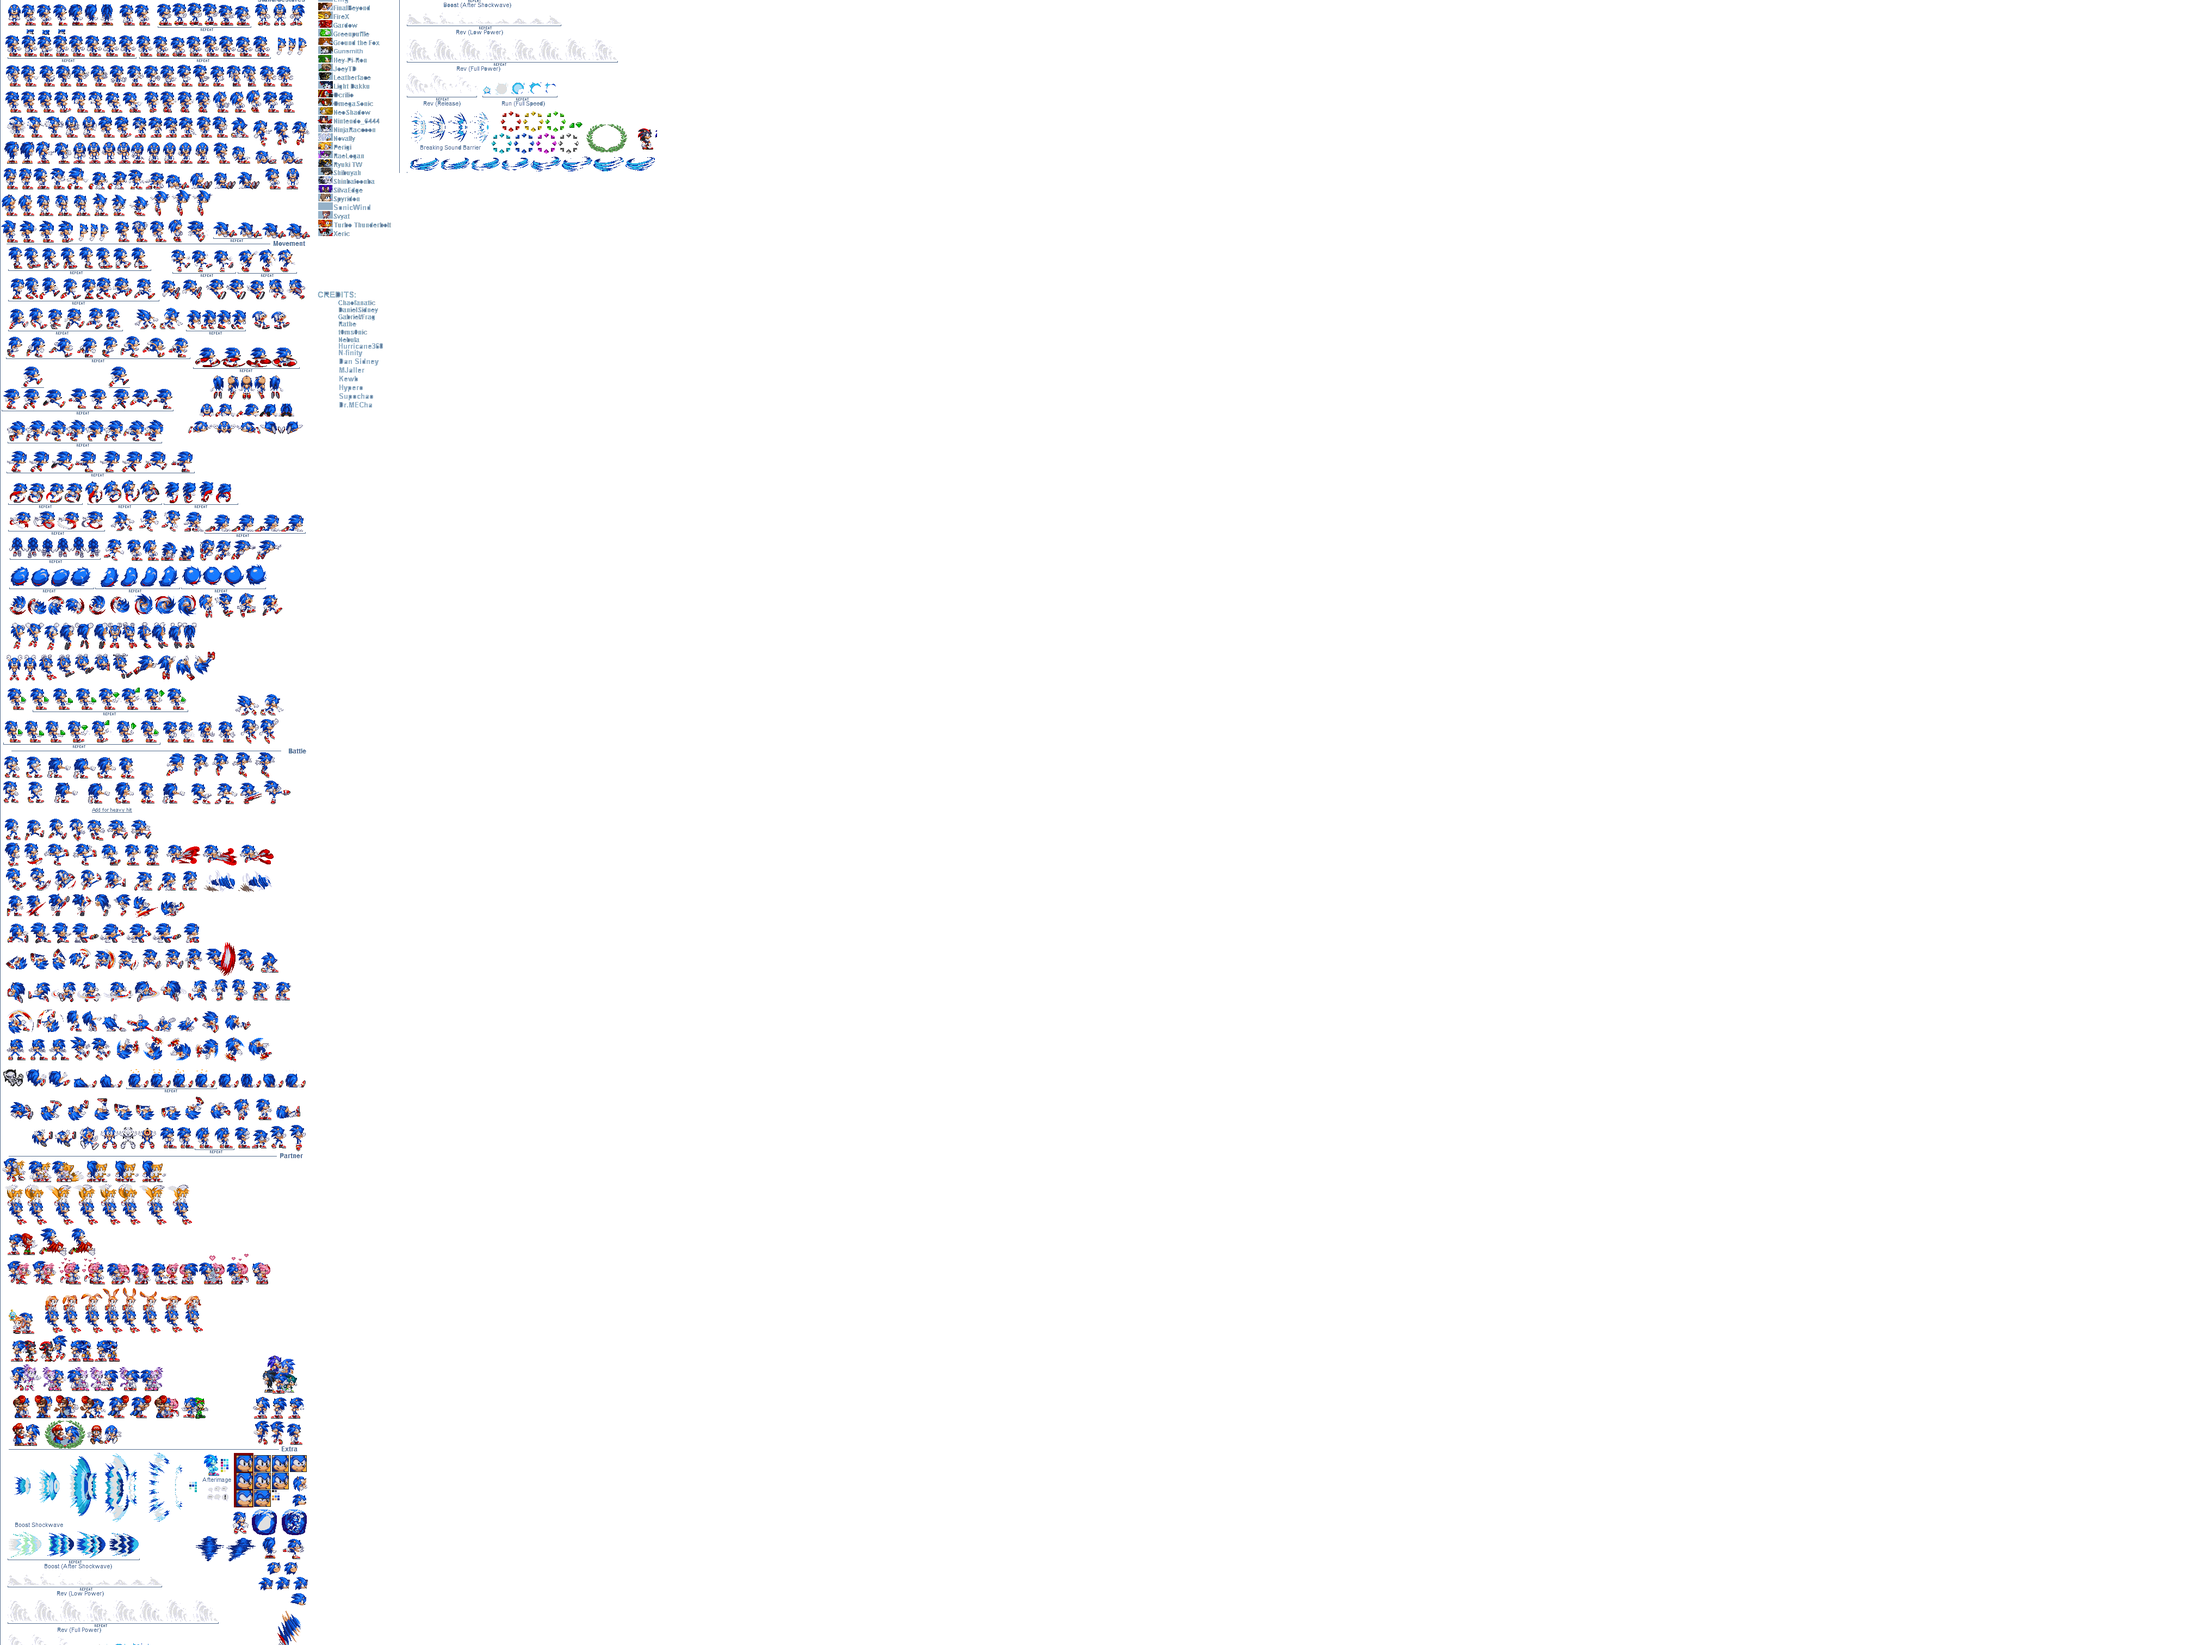
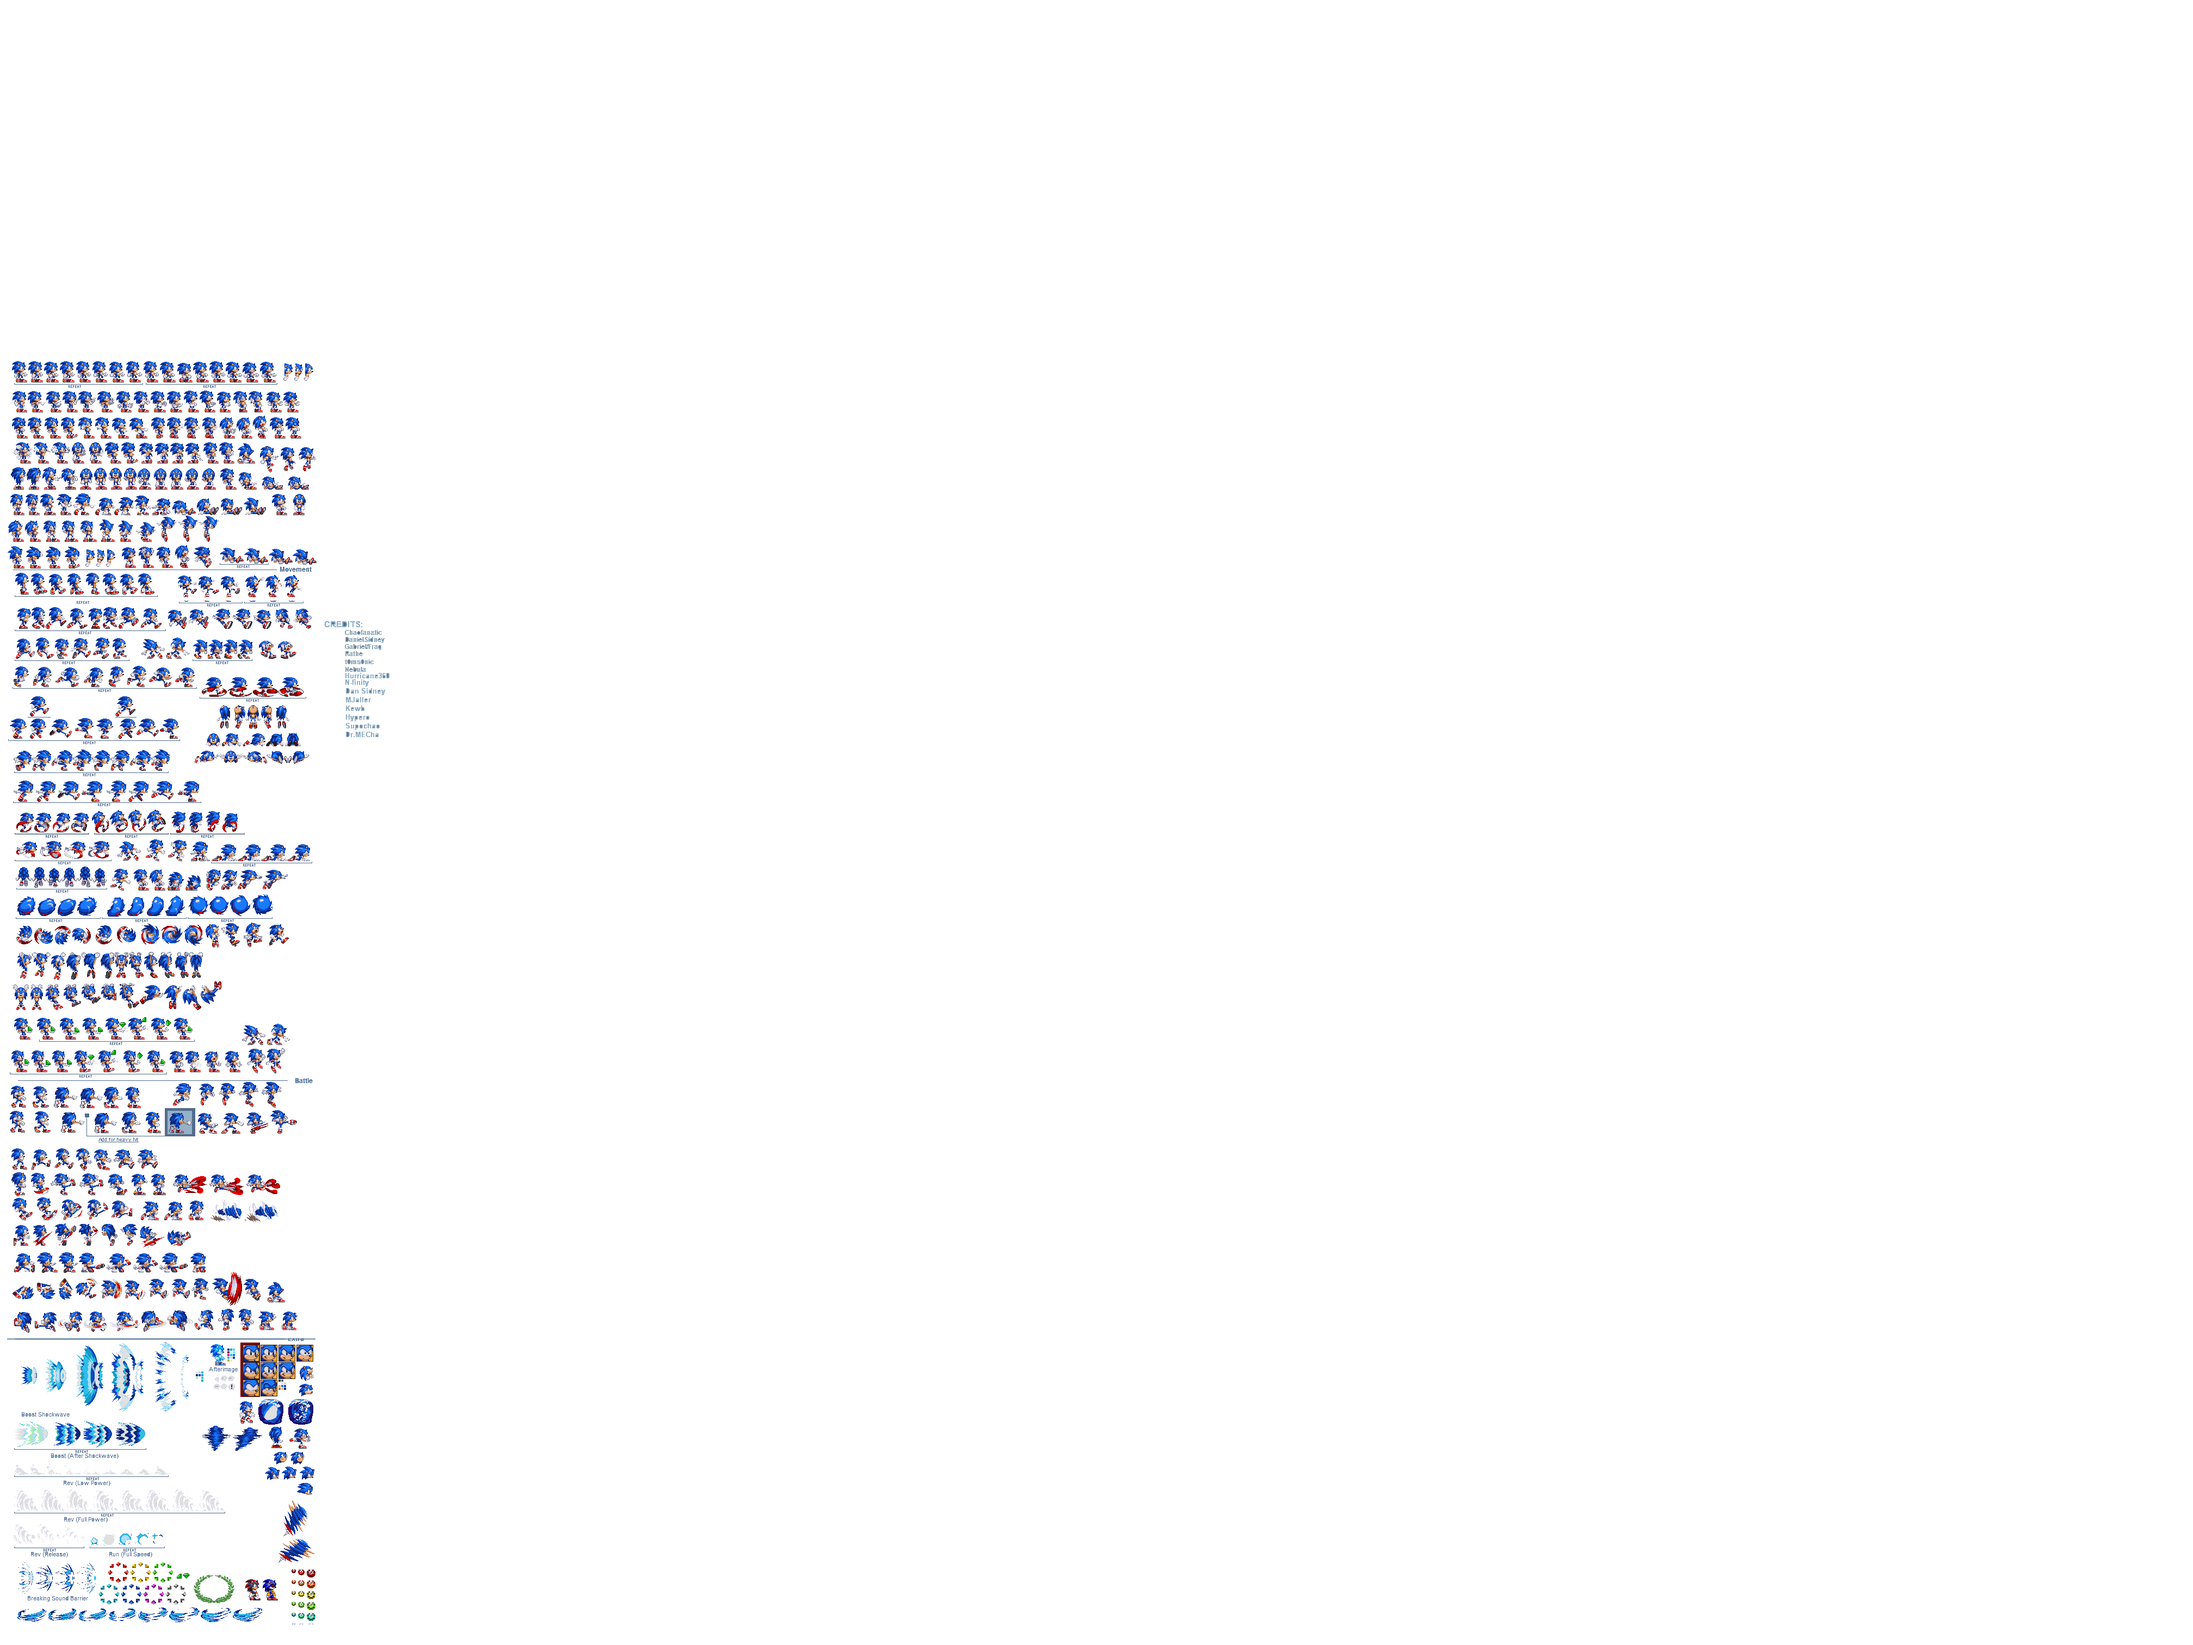
코드 수정
sonic 캐릭터 추가
sonic left.png 수정
캐릭터 이동 구현

Changed region(s): [[0.0, 0.0, 0.2812, 1.0]]

diff --git a/character_state.py b/character_state.py
@@ -1,5 +1,6 @@
 from pico2d import *
 import game_framework
+import game
 
 player_character = None
 character = ['Sonic', 'Tales', 'Knuckles', 'AmyRose', 'Tikal', 'Rouge', 'Shadow',
@@ -7,110 +8,264 @@ character = ['Sonic', 'Tales', 'Knuckles', 'AmyRose', 'Tikal', 'Rouge', 'Shadow'
 
 class Sonic:
     def __init__(self):
+        self.hp = 100
+        self.speed = 1.5
+        self.frame = 0
+        self.dir_x, self.dir_y = 0, 0
+        self.x, self.y = 400, 300
         self.image_left = load_image("character/sonic left.png")
         self.image_right = load_image("character/sonic left.png")
 
+    def update(self):
+        self.frame = (self.frame + 1) % 8
+        self.x += self.dir_x * self.speed * 10
+        self.y += self.dir_y * 1
+        InsideWindow(self.x, self.y)
+
     def draw(self):
-        self.image.clip_draw(0, 0, 0, 0, 400, 300)
+        self.image_left.clip_draw(20 + (self.frame * 30), 2320, 30, 40, self.x, self.y)
+        self.image_right.clip_draw(20 + self.frame * 30, 3000, 30, 40, self.x, self.y)
 
 class Tales:
     def __init__(self):
+        self.hp = 100
+        self.speed = 5
+        self.frame = 0
+        self.dir_x, self.dir_y = 0, 0
+        self.x, self.y = 400, 300
         self.image_left = load_image("character/tales left.png")
         self.image_right = load_image("character/tales left.png")
 
+    def update(self):
+        self.x += self.dir_x * 1
+        self.y += self.dir_y * 1
+        InsideWindow(self.x, self.y)
+
     def draw(self):
-        self.image.clip_draw(0, 0, 0, 0, 400, 300)
+        self.image_left.clip_draw(self.frame, 300, 400, 300, self.x, self.y)
+        self.image_right.clip_draw(self.frame, 300, 400, 300, self.x, self.y)
 
 class Knuckles:
     def __init__(self):
+        self.hp = 100
+        self.speed = 5
+        self.frame = 0
+        self.dir_x, self.dir_y = 0, 0
+        self.x, self.y = 400, 300
         self.image_left = load_image("character/knuckles left.png")
         self.image_right = load_image("character/knuckles left.png")
 
+    def update(self):
+        self.x += self.dir_x * 1
+        self.y += self.dir_y * 1
+        InsideWindow(self.x, self.y)
+
     def draw(self):
-        self.image.clip_draw(0, 0, 0, 0, 400, 300)
+        self.image_left.clip_draw(self.frame, 300, 400, 300, self.x, self.y)
+        self.image_right.clip_draw(self.frame, 300, 400, 300, self.x, self.y)
 
 class AmyRose:
     def __init__(self):
+        self.hp = 100
+        self.speed = 5
+        self.frame = 0
+        self.dir_x, self.dir_y = 0, 0
+        self.x, self.y = 400, 300
         self.image_left = load_image("character/amy rose left.png")
         self.image_right = load_image("character/amy rose left.png")
 
+    def update(self):
+        self.x += self.dir_x * 1
+        self.y += self.dir_y * 1
+        InsideWindow(self.x, self.y)
+
     def draw(self):
-        self.image.clip_draw(0, 0, 0, 0, 400, 300)
+        self.image_left.clip_draw(self.frame, 300, 400, 300, self.x, self.y)
+        self.image_right.clip_draw(self.frame, 300, 400, 300, self.x, self.y)
 
 class Tikal:
     def __init__(self):
+        self.hp = 100
+        self.speed = 5
+        self.frame = 0
+        self.dir_x, self.dir_y = 0, 0
+        self.x, self.y = 400, 300
         self.image_left = load_image("character/tikal left.png")
         self.image_right = load_image("character/tikal right.png")
 
+    def update(self):
+        self.x += self.dir_x * 1
+        self.y += self.dir_y * 1
+        InsideWindow(self.x, self.y)
+
     def draw(self):
-        self.image.clip_draw(0, 0, 0, 0, 400, 300)
+        self.image_left.clip_draw(self.frame, 300, 400, 300, self.x, self.y)
+        self.image_right.clip_draw(self.frame, 300, 400, 300, self.x, self.y)
 
 class Rouge:
     def __init__(self):
+        self.hp = 100
+        self.speed = 5
+        self.frame = 0
+        self.dir_x, self.dir_y = 0, 0
+        self.x, self.y = 400, 300
         self.image_left = load_image("character/rouge left.png")
         self.image_right = load_image("character/rouge right.png")
 
+    def update(self):
+        self.x += self.dir_x * 1
+        self.y += self.dir_y * 1
+        InsideWindow(self.x, self.y)
+
     def draw(self):
-        self.image.clip_draw(0, 0, 0, 0, 400, 300)
+        self.image_left.clip_draw(self.frame, 300, 400, 300, self.x, self.y)
+        self.image_right.clip_draw(self.frame, 300, 400, 300, self.x, self.y)
 
 class Shadow:
     def __init__(self):
+        self.hp = 100
+        self.speed = 5
+        self.frame = 0
+        self.dir_x, self.dir_y = 0, 0
+        self.x, self.y = 400, 300
         self.image_left = load_image("character/shadow left.png")
         self.image_right = load_image("character/shadow right.png")
 
+    def update(self):
+        self.x += self.dir_x * 1
+        self.y += self.dir_y * 1
+        InsideWindow(self.x, self.y)
+
     def draw(self):
-        self.image.clip_draw(0, 0, 0, 0, 400, 300)
+        self.image_left.clip_draw(self.frame, 300, 400, 300, self.x, self.y)
+        self.image_right.clip_draw(self.frame, 300, 400, 300, self.x, self.y)
 
 class Silver:
     def __init__(self):
+        self.hp = 100
+        self.speed = 5
+        self.frame = 0
+        self.dir_x, self.dir_y = 0, 0
+        self.x, self.y = 400, 300
         self.image_left = load_image("character/silver left.png")
         self.image_right = load_image("character/silver right.png")
 
+    def update(self):
+        self.x += self.dir_x * 1
+        self.y += self.dir_y * 1
+        InsideWindow(self.x, self.y)
+
     def draw(self):
-        self.image.clip_draw(0, 0, 0, 0, 400, 300)
+        self.image_left.clip_draw(self.frame, 300, 400, 300, self.x, self.y)
+        self.image_right.clip_draw(self.frame, 300, 400, 300, self.x, self.y)
 
 class Blaze:
     def __init__(self):
+        self.hp = 100
+        self.speed = 5
+        self.frame = 0
+        self.dir_x, self.dir_y = 0, 0
+        self.x, self.y = 400, 300
         self.image_left = load_image("character/blaze left.png")
         self.image_right = load_image("character/blaze right.png")
 
+    def update(self):
+        self.x += self.dir_x * 1
+        self.y += self.dir_y * 1
+        InsideWindow(self.x, self.y)
+
     def draw(self):
-        self.image.clip_draw(0, 0, 0, 0, 400, 300)
+        self.image_left.clip_draw(0, 0, 0, 0, 400, 300)
+        self.image_right.clip_draw(0, 0, 0, 0, 400, 300)
 
 class Espio:
     def __init__(self):
+        self.hp = 100
+        self.speed = 5
+        self.frame = 0
+        self.dir_x, self.dir_y = 0, 0
+        self.x, self.y = 400, 300
         self.image_left = load_image("character/espio left.png")
         self.image_right = load_image("character/espio right.png")
 
+    def update(self):
+        self.x += self.dir_x * 1
+        self.y += self.dir_y * 1
+        InsideWindow(self.x, self.y)
+
     def draw(self):
-        self.image.clip_draw(0, 0, 0, 0, 400, 300)
+        self.image_left.clip_draw(self.frame, 300, 400, 300, self.x, self.y)
+        self.image_right.clip_draw(self.frame, 300, 400, 300, self.x, self.y)
 
 class Mighty:
     def __init__(self):
+        self.hp = 100
+        self.speed = 5
+        self.frame = 0
+        self.dir_x, self.dir_y = 0, 0
+        self.x, self.y = 400, 300
         self.image_left = load_image("character/mighty left.png")
         self.image_right = load_image("character/mighty right.png")
 
+    def update(self):
+        self.x += self.dir_x * 1
+        self.y += self.dir_y * 1
+        InsideWindow(self.x, self.y)
+
     def draw(self):
-        self.image.clip_draw(0, 0, 0, 0, 400, 300)
+        self.image_left.clip_draw(self.frame, 300, 400, 300, self.x, self.y)
+        self.image_right.clip_draw(self.frame, 300, 400, 300, self.x, self.y)
 
 class SuperSonic:
     def __init__(self):
+        self.hp = 100
+        self.speed = 5
+        self.frame = 0
+        self.dir_x, self.dir_y = 0, 0
+        self.x, self.y = 400, 300
         self.image_left = load_image("character/super sonic left.png")
         self.image_right = load_image("character/super sonic right.png")
 
+    def update(self):
+        self.x += self.dir_x * 1
+        self.y += self.dir_y * 1
+        InsideWindow(self.x, self.y)
+
     def draw(self):
-        self.image.clip_draw(0, 0, 0, 0, 400, 300)
+        self.image_left.clip_draw(self.frame, 300, 400, 300, self.x, self.y)
+        self.image_right.clip_draw(self.frame, 300, 400, 300, self.x, self.y)
 
 class SuperShadow:
     def __init__(self):
+        self.hp = 100
+        self.speed = 5
+        self.frame = 0
+        self.dir_x, self.dir_y = 0, 0
+        self.x, self.y = 400, 300
         self.image_left = load_image("character/super shadow left.png")
         self.image_right = load_image("character/super shadow right.png")
 
+    def update(self):
+        self.x += self.dir_x * 1
+        self.y += self.dir_y * 1
+        InsideWindow(self.x, self.y)
+
     def draw(self):
-        self.image.clip_draw(0, 0, 0, 0, 400, 300)
+        self.image_left.clip_draw(self.frame, 300, 400, 300, self.x, self.y)
+        self.image_right.clip_draw(self.frame, 300, 400, 300, self.x, self.y)
+
+def InsideWindow(x, y):
+    if x > game.window_size_x:
+        x = game.window_size_x
+    elif x < 0:
+        x = 0
+    if y > game.window_size_y:
+        y = game.window_size_y
+    elif y < 0:
+        y = 0
 
 def handle_events():
-    global running
+    global player_character
     events = get_events()
     for event in events:
         if event.type == SDL_QUIT:
@@ -118,7 +273,27 @@ def handle_events():
         elif event.type == SDL_KEYDOWN:
             if event.key == SDLK_ESCAPE:
                 game_framework.quit()
-
+            elif event.key == SDLK_UP:
+                player_character.dir_y = 1
+                player_character.y += player_character.dir_y * 1
+            elif event.key == SDLK_LEFT:
+                player_character.dir_x = -1
+                player_character.x += player_character.dir_x * 1
+            elif event.key == SDLK_DOWN:
+                player_character.dir_y = -1
+                player_character.y += player_character.dir_y * 1
+            elif event.key == SDLK_RIGHT:
+                player_character.dir_x = 1
+                player_character.x += player_character.dir_x * 1
+        elif event.type == SDL_KEYUP:
+            if event.key == SDLK_UP:
+                player_character.dir_y = 0
+            elif event.key == SDLK_LEFT:
+                player_character.dir_x = 0
+            elif event.key == SDLK_DOWN:
+                player_character.dir_y = 0
+            elif event.key == SDLK_RIGHT:
+                player_character.dir_x = 0
 def enter():
     global player_character
     player_character = Sonic()
@@ -127,13 +302,14 @@ def exit():
     global player_character
     del player_character
 
+def update():
+    player_character.update()
+    handle_events()
+
 def draw():
     clear_canvas()
     player_character.draw()
     update_canvas()
-
-def update():
-    handle_events()
 
 def pause():
     pass

diff --git a/map_state.py b/map_state.py
@@ -1,5 +1,6 @@
 from pico2d import *
 import game_framework
+import character_state
 
 stage_count = 0
 stage = None
@@ -10,19 +11,32 @@ class Palm:
     def draw(self):
         self.image.clip_draw(0, 600, 1000, 600, 400, 300)
 
+class Snow:
+    def __init__(self):
+        self.image = load_image('map/snow.png')
+
+    def draw(self):
+        self.image.clip_draw(0, 600, 700, 300, 400, 300)
+
 def handle_events():
-    global running
     events = get_events()
     for event in events:
         if event.type == SDL_QUIT:
             game_framework.quit()
-        elif event.type == SDL_KEYDOWN and event.key == SDLK_ESCAPE:
-            game_framework.quit()
-
+        elif event.type == SDL_KEYDOWN:
+            if event.key == SDLK_ESCAPE:
+                game_framework.quit()
 def enter():
     global stage, stage_count
     if stage_count == 0:
         stage = Palm()
+        stage_count = 1
+    elif stage_count == 1:
+        stage = Snow()
+        stage_count = 2
+    elif stage_count == 2:
+        stage = 0
+        stage_count = 100
     pass
 
 def exit():
@@ -32,8 +46,7 @@ def exit():
 
 def draw():
     clear_canvas()
-    if stage_count == 0:
-        stage.draw()
+    stage.draw()
     update_canvas()
 
 def update():

diff --git a/game.py b/game.py
@@ -1,7 +1,10 @@
 from pico2d import *
 import game_framework
 import ready_state
+import character_state
 
-open_canvas(800, 600)
-game_framework.run(ready_state)
+window_size_x = 800
+window_size_y = 600
+open_canvas(window_size_x, window_size_y)
+game_framework.run(character_state)
 clear_canvas()
